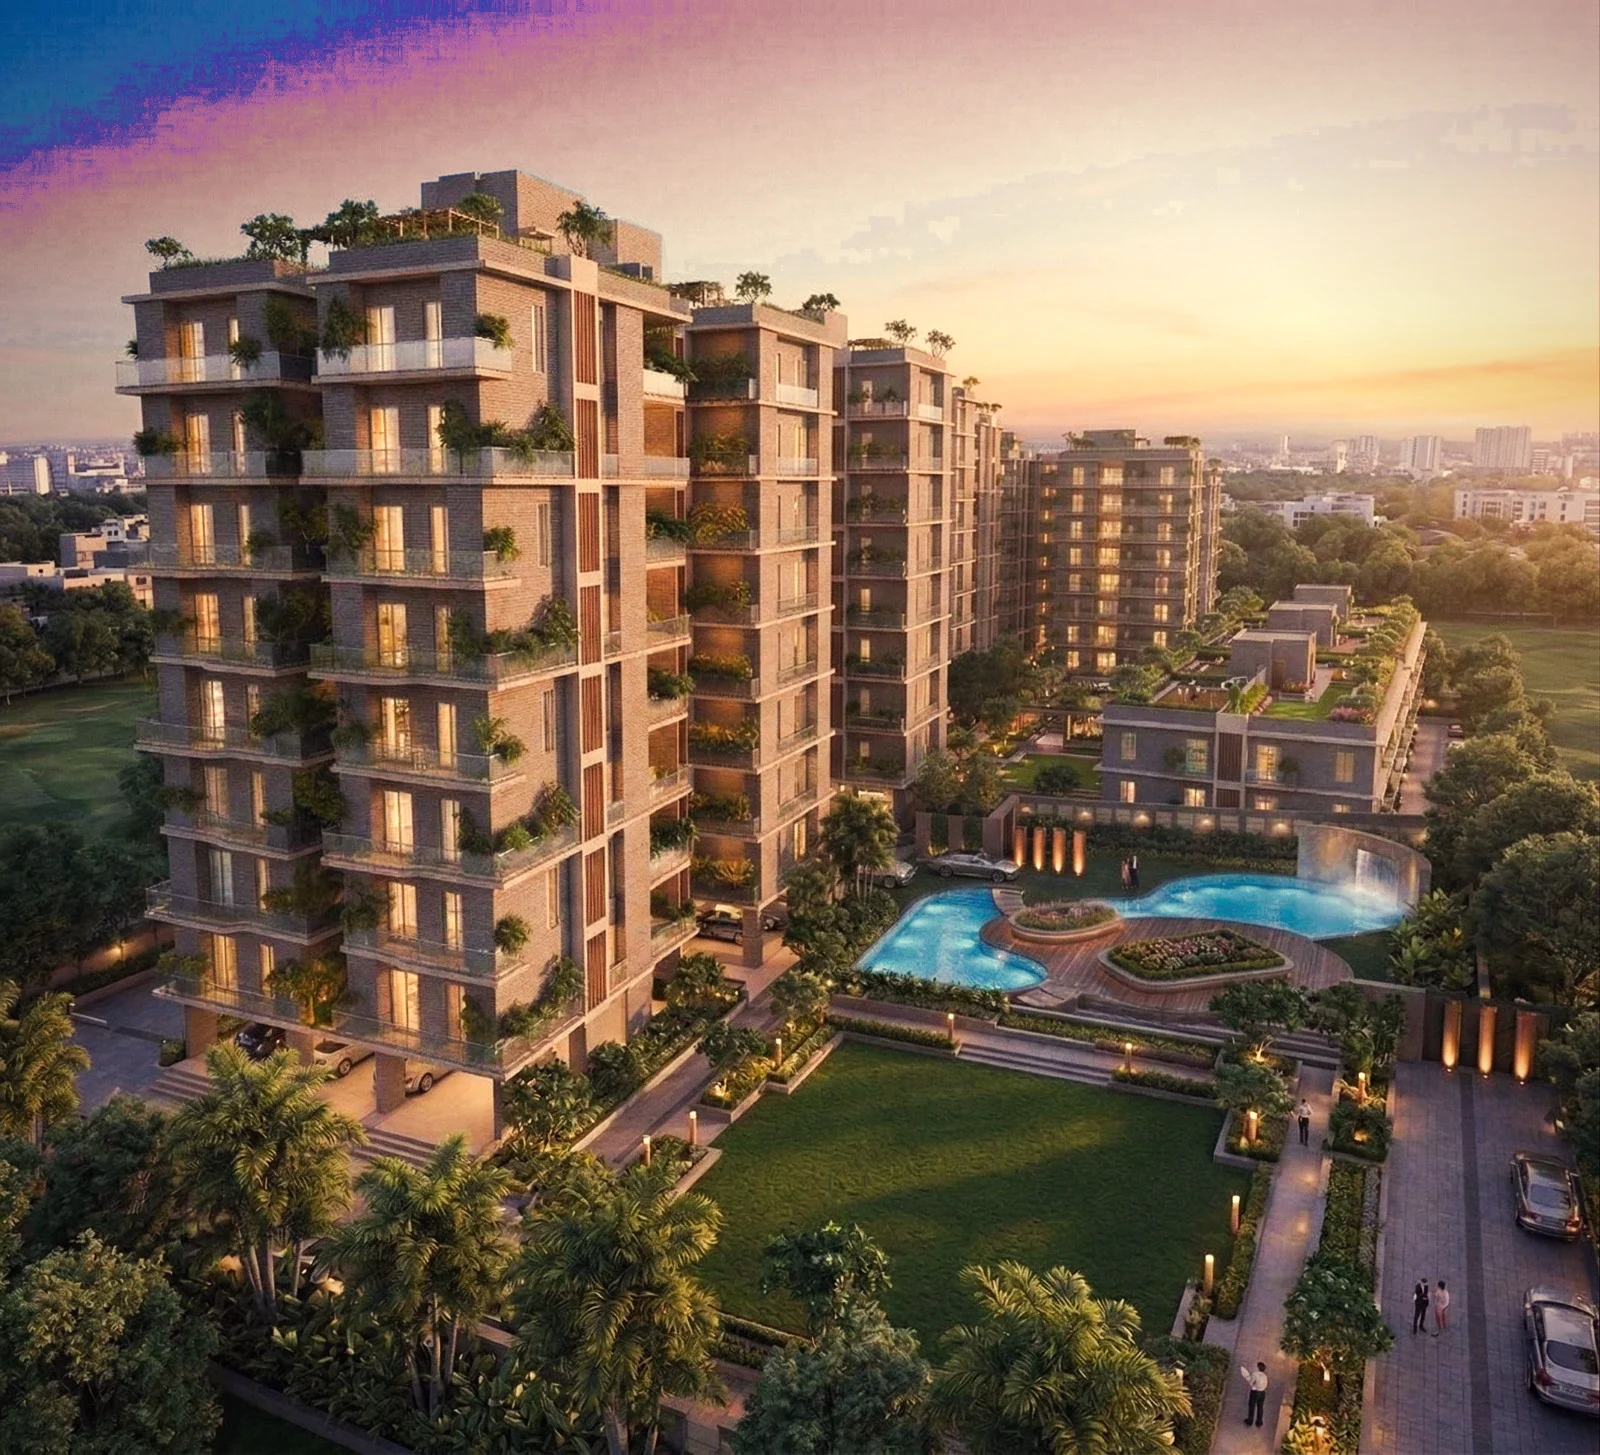
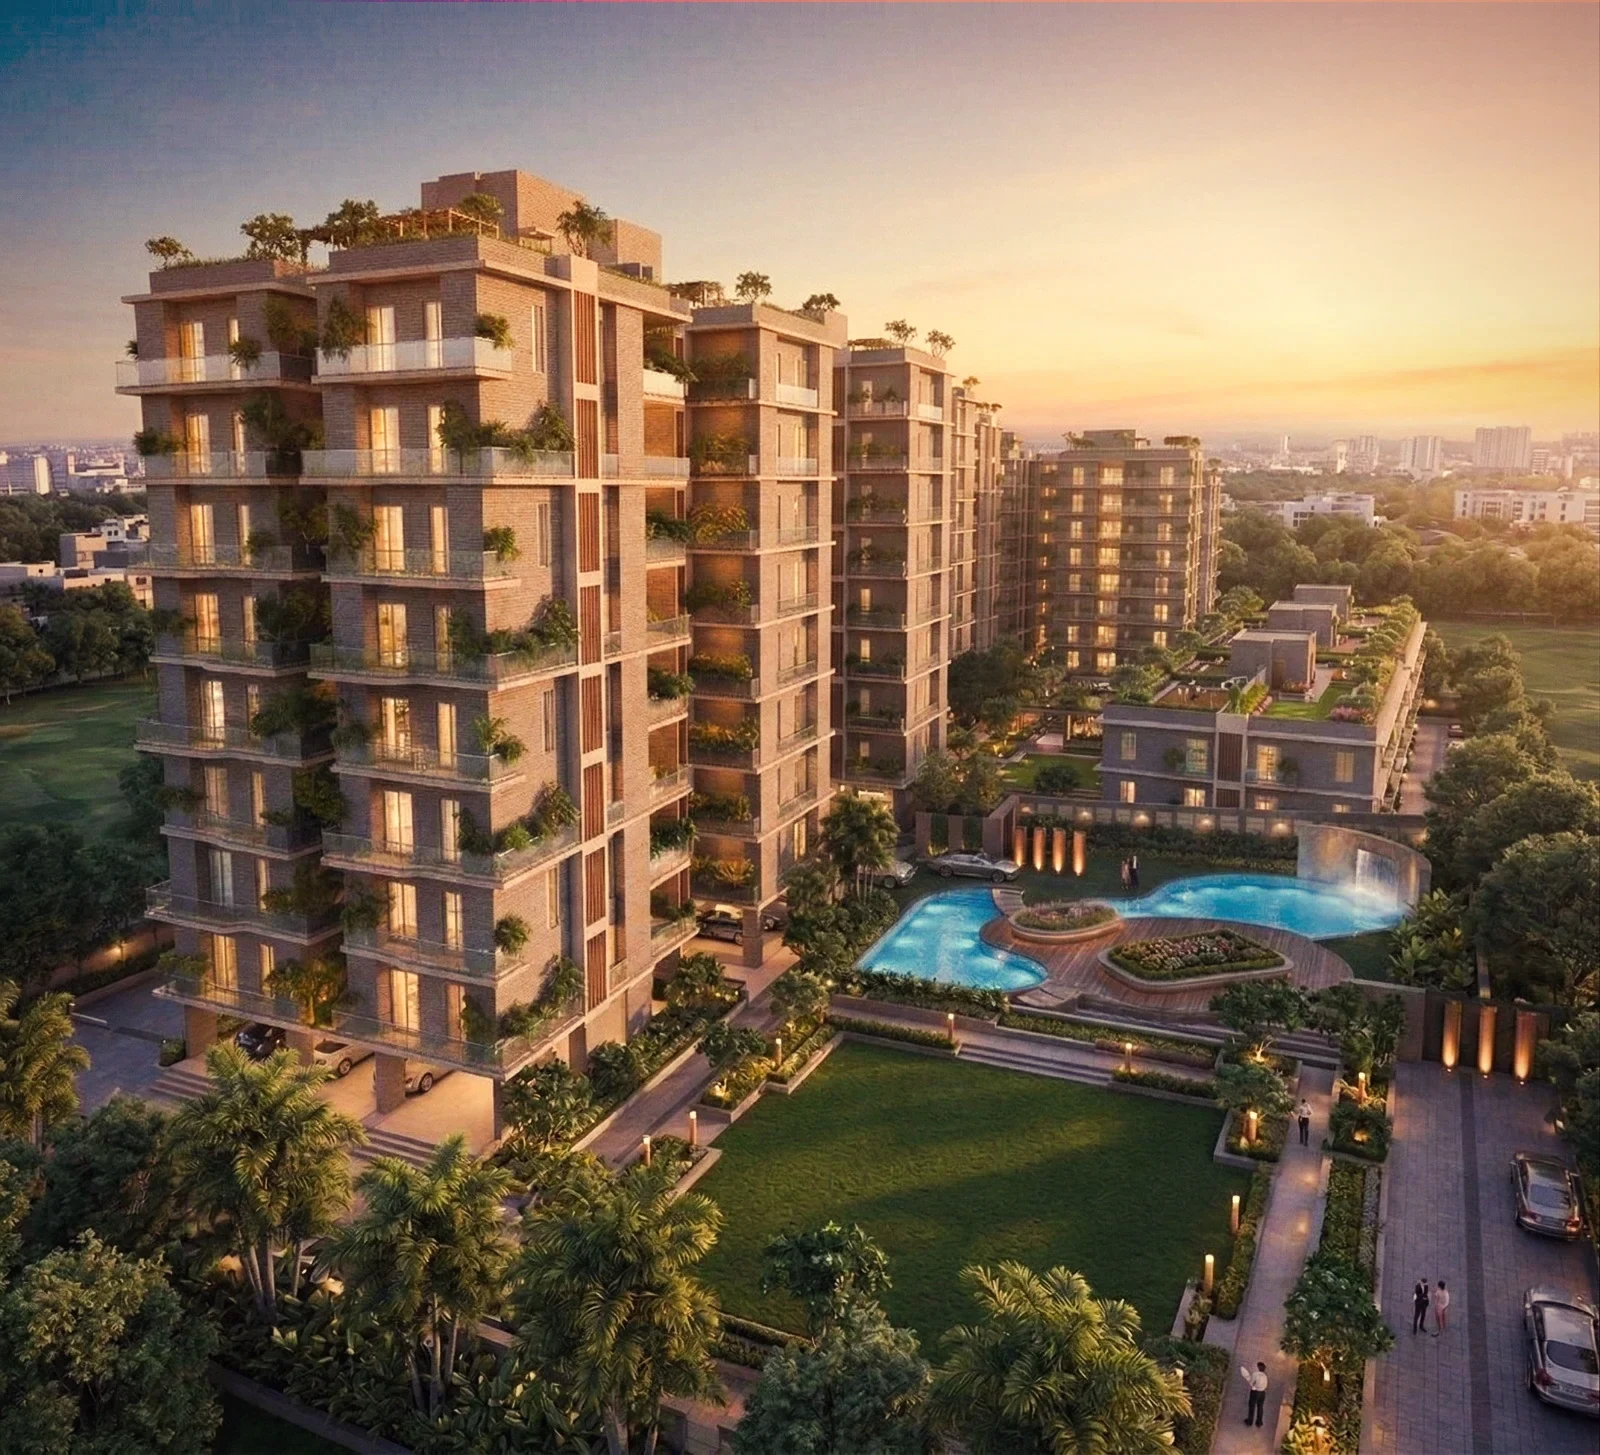
Always end on the dark horizon; smooth aerial sky
- Closing image sized against the tallest screen height, so the page ends on
  the dark strip with the horizon glow visible (no beige above it), including
  after resizing or when a phone's address bar hides
- Aerial gallery image re-warmed without the hard purple band in its sky

Changed region(s): [[0.0, 0.0, 0.7188, 0.3093], [0.6562, 0.0, 1.0, 0.1237]]

diff --git a/assets/css/ananta.css b/assets/css/ananta.css
@@ -346,13 +346,13 @@ details[open] .directory-plus,details[open] .plus{transform:rotate(45deg)}
 .enquiry-form>button[type=submit]{width:100%;margin-top:20px}
 
 /* Footer: the one horizon image on the page, cropped tall: sky and sign above, runway beneath the details */
-.horizon-strip{position:relative;height:400px;display:flex;align-items:flex-start;justify-content:center;padding-top:clamp(64px,9vh,96px);text-align:center;background:#000 url('../images/curated/horizon.webp') center/cover no-repeat}
+.horizon-strip{position:relative;height:400px;height:max(400px,calc(100vh - var(--footer-h,0px)));height:max(400px,calc(100lvh - var(--footer-h,0px)));display:flex;align-items:flex-start;justify-content:center;padding-top:clamp(64px,9vh,96px);text-align:center;background:#000 url('../images/curated/horizon.webp') center/cover no-repeat}
 .horizon-strip::before{content:'';position:absolute;inset:0;background:linear-gradient(180deg,#0c1020cc 0%,#0c102066 26%,#0c102000 44%,#0c102000 70%,var(--night) 100%)}
 .horizon-strip>div{position:relative}
 .horizon-strip img{width:170px;margin:auto}
 .horizon-strip p{margin-top:24px;font-size:11px;letter-spacing:.42em;color:var(--champagne-soft)}
 @media (min-width:701px){
-  .horizon-strip{height:470px;padding-top:clamp(96px,14vh,140px)}
+  .horizon-strip{padding-top:clamp(96px,14vh,140px)}
   .horizon-strip img{width:190px}
 }
 .footer{position:relative;background:linear-gradient(180deg,var(--night),#0a0e1c);padding:32px 0 32px;font-size:14px;color:var(--on-dark-muted)}
@@ -537,7 +537,7 @@ h2 em,h3 em{padding-right:.06em;background:linear-gradient(100deg,#7d5a1c 0%,var
   .enquiry-form{padding:28px 20px 24px}
   .enquiry-form h3{font-size:24px}
   .frow.two{grid-template-columns:1fr;gap:0}
-  .horizon-strip{height:280px;padding-top:40px}
+  .horizon-strip{height:max(220px,calc(100vh - var(--footer-h,0px)));height:max(220px,calc(100lvh - var(--footer-h,0px)));padding-top:40px;padding-top:calc(40px + 100lvh - 100svh)}
   .horizon-strip img{width:130px}
   .horizon-strip p{font-size:10px;letter-spacing:.3em}
   .footer{padding:20px 0 calc(28px + env(safe-area-inset-bottom))}

diff --git a/assets/js/revision.js b/assets/js/revision.js
@@ -36,11 +36,12 @@
  // width), scaling just enough to cover.
  var artWidth=2200,artHeight=1114,lightX=1439,lightY=615,wide=matchMedia('(min-width:701px)');
  function alignHorizons(){document.querySelectorAll('.horizon-strip,[data-horizon]').forEach(function(el){var w=el.clientWidth,h=el.clientHeight,fy=parseFloat((wide.matches&&el.dataset.horizonYWide)||el.dataset.horizonY||'.5');var scale=Math.max(w/(2*Math.min(lightX,artWidth-lightX)),(h*fy)/lightY,(h*(1-fy))/(artHeight-lightY));el.style.backgroundSize=(artWidth*scale)+'px '+(artHeight*scale)+'px';el.style.backgroundPosition=(w/2-lightX*scale)+'px '+(h*fy-lightY*scale)+'px';});}
- // At the very end the closing image and the footer fill the screen together, so the image with the
- // logo sits at the top. Sized on load and on width changes only (not when a phone's address bar moves).
- var strip=document.querySelector('.horizon-strip'),footer=document.querySelector('.footer'),lastWidth=0;
- function fitEnding(){if(!strip||!footer||innerWidth===lastWidth)return;lastWidth=innerWidth;strip.style.height=Math.max(wide.matches?400:220,innerHeight-footer.offsetHeight)+'px';}
- function refit(){lastWidth=0;fitEnding();alignHorizons();}
+ // At the very end the closing image and the footer fill the screen together, so the page always ends on
+ // the dark image with the logo at the top. CSS sizes the strip against the tallest screen height (100lvh);
+ // the script only reports the footer's height.
+ var strip=document.querySelector('.horizon-strip'),footer=document.querySelector('.footer');
+ function fitEnding(){if(!strip||!footer)return;strip.style.setProperty('--footer-h',footer.offsetHeight+'px');}
+ function refit(){fitEnding();alignHorizons();}
  // The closing mark lights up gradually: --glow is 0 as the strip enters the screen and 1 once it reaches the top.
  function glow(){if(!strip)return;var t=strip.getBoundingClientRect().top,p=Math.max(0,Math.min(1,1-t/innerHeight));strip.style.setProperty('--glow',(p*p).toFixed(3));}
  addEventListener('scroll',function(){requestAnimationFrame(glow);},{passive:true});
